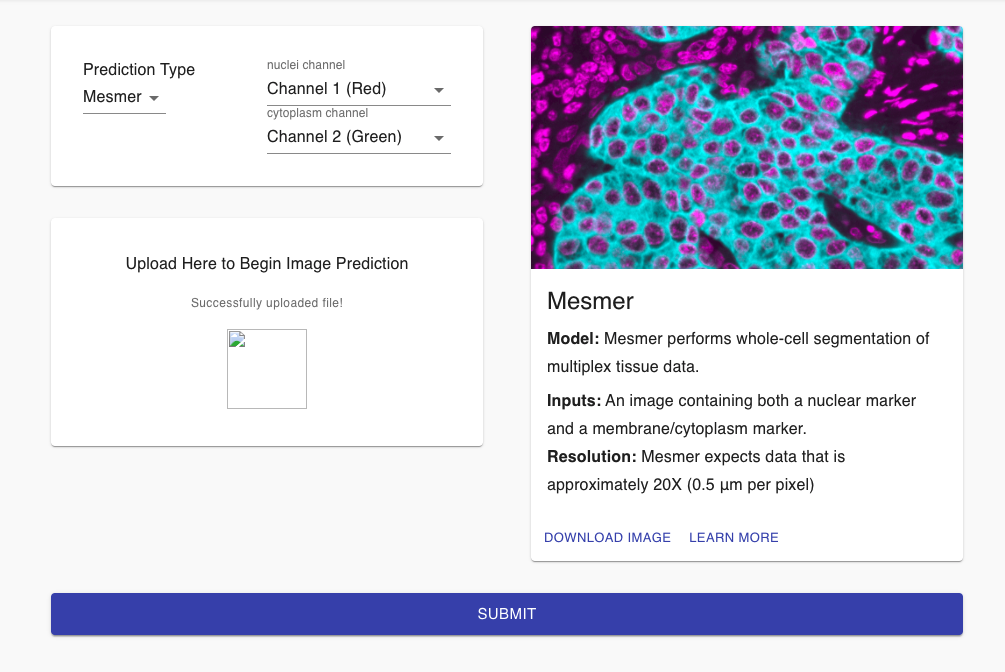
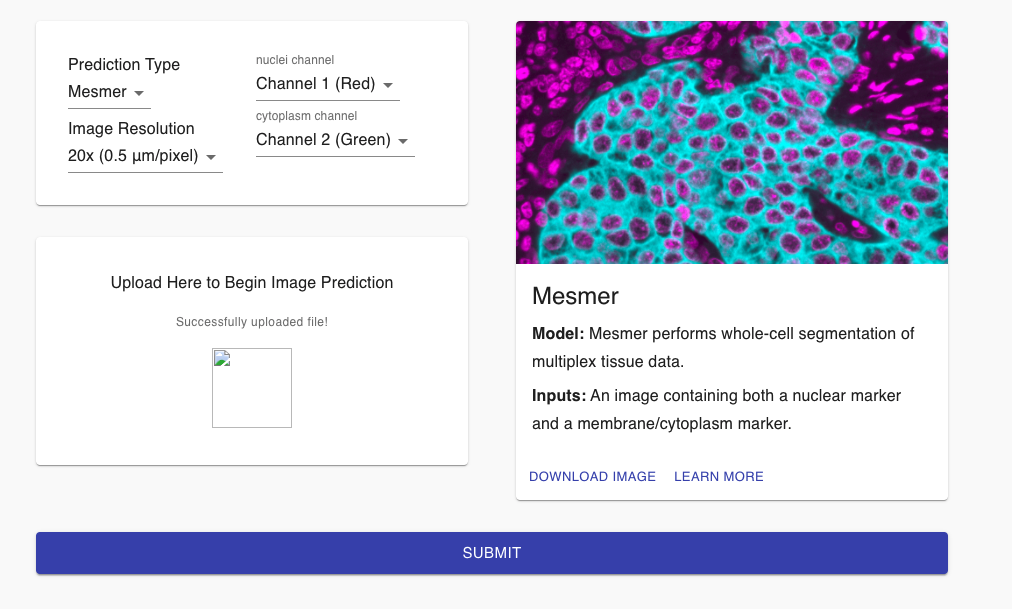
Update repo for Mesmer publication (#42)
* Update links in readme

* Update screenshots

* Update readme with paper link

diff --git a/pretrained_models/README.md b/pretrained_models/README.md
@@ -25,11 +25,11 @@ Each of the models we host has slightly different requirements for input data. P
 
 The Mesmer model performs whole-cell segmentation of multiplexed tissue imaging data. 
 
-Data format: The Mesmer model expects two channels of imaging data. The first channel must be a nuclear channel (such as DAPI). The second channel must be a membrane or cytoplasmic channel (such as E-Cadherin). If you did not acquire a membrane channel in a particular experiment, you instead supply an empty channel and the model will default to nuclear segmentation for the nuclei in the image. 
+Data format: The Mesmer model expects two channels of imaging data. The first channel must be a nuclear channel (such as DAPI). The second channel must be a membrane or cytoplasmic channel (such as E-Cadherin). If you did not acquire a membrane channel in a particular experiment, you can instead supply an empty channel and the model will default to nuclear segmentation for the nuclei in the image. 
 
 Image types: The Mesmer model was trained on [TissueNet](https://datasets.deepcell.org/), and thus is optimized for segmenting multiplexed tissue samples. It will **not** perform well on data from other modalties, such as H&E, IHC, cell culture, etc. 
 
-Image resolution: For optimal results, the supplied data should have a physical size of 0.5um per pixel. 
+Image resolution: Specify the image resolution that is closest to the resolution your data was acquired at. 
 
 Outputs: The Mesmer model produces two segmentation masks. The first segmentation mask contains the whole-cell predictions, and the second contains the nuclear predictions. Within the masks, each cell is assigned a unique integer value, with the pixels which belong to each cell being given that value. 
 
@@ -103,7 +103,7 @@ Generating data from the website is quite easy.
 
 ![image](resources/DeepCell_website_predict.png)
 
-2. This will take you to the image upload interface. The default pipeline is `Mesmer`. Before submitting your image, make sure you understand [the available models and data formatting requirements](#formatting-data-for-pre-trained-models). Upload your image by dragging it into the upload box, or by clicking within the box and then browsing to find your image. If you'd like to use our example image, click the 'Download Image' button. 
+2. This will take you to the image upload interface. The default pipeline is `Mesmer`. Before submitting your image, make sure you understand [the available models and data formatting requirements](#formatting-data-for-pre-trained-models). This includes properly specifying the location of the nuclear and cytoplasm channel, as well as the resolution of your data. Upload your image by dragging it into the upload box, or by clicking within the box and then browsing to find your image. If you'd like to use our example image, click the 'Download Image' button. 
 
 ![image](resources/DeepCell_website_upload.png)
 

diff --git a/README.md b/README.md
@@ -39,9 +39,9 @@ This tutorial will provide a gentle introduction to all three areas. Additionall
 
 To learn more about the various systems and software that comprise DeepCell, please refer to the publications below. Relevant links are highlighted below each publication.
 
-[Greenwald, Miller et al. Whole-cell segmentation of tissue images with human-level performance using large-scale data annotation and deep learning](https://www.biorxiv.org/content/10.1101/2021.03.01.431313v2)
+[Greenwald, Miller et al. Whole-cell segmentation of tissue images with human-level performance using large-scale data annotation and deep learning]( https://www.nature.com/articles/s41587-021-01094-0)
 
-* The TissueNet dataset will be released through [deepcell.datasets](https://datasets.deepcell.org) at the time of publication
+* The TissueNet dataset is available at [deepcell.datasets](https://datasets.deepcell.org)
 * The Mesmer pipeline can be run from deepcell.org or via ImageJ/QuPath plugins by reading our documentation on [running pretrained models in the cloud](./pretrained_models#running-pre-trained-models-in-the-cloud)
 * The Mesmer pipeline can be run locally via a jupyter notebook as shown in this [example notebook](https://github.com/vanvalenlab/deepcell-tf/blob/master/notebooks/applications/Mesmer-Application.ipynb), or from the command line using our [application Docker](https://github.com/vanvalenlab/deepcell-applications/blob/master/README.md)
 * The ark-analysis multiplexed image analysis pipeline is at [this github link](https://github.com/angelolab/ark-analysis)
